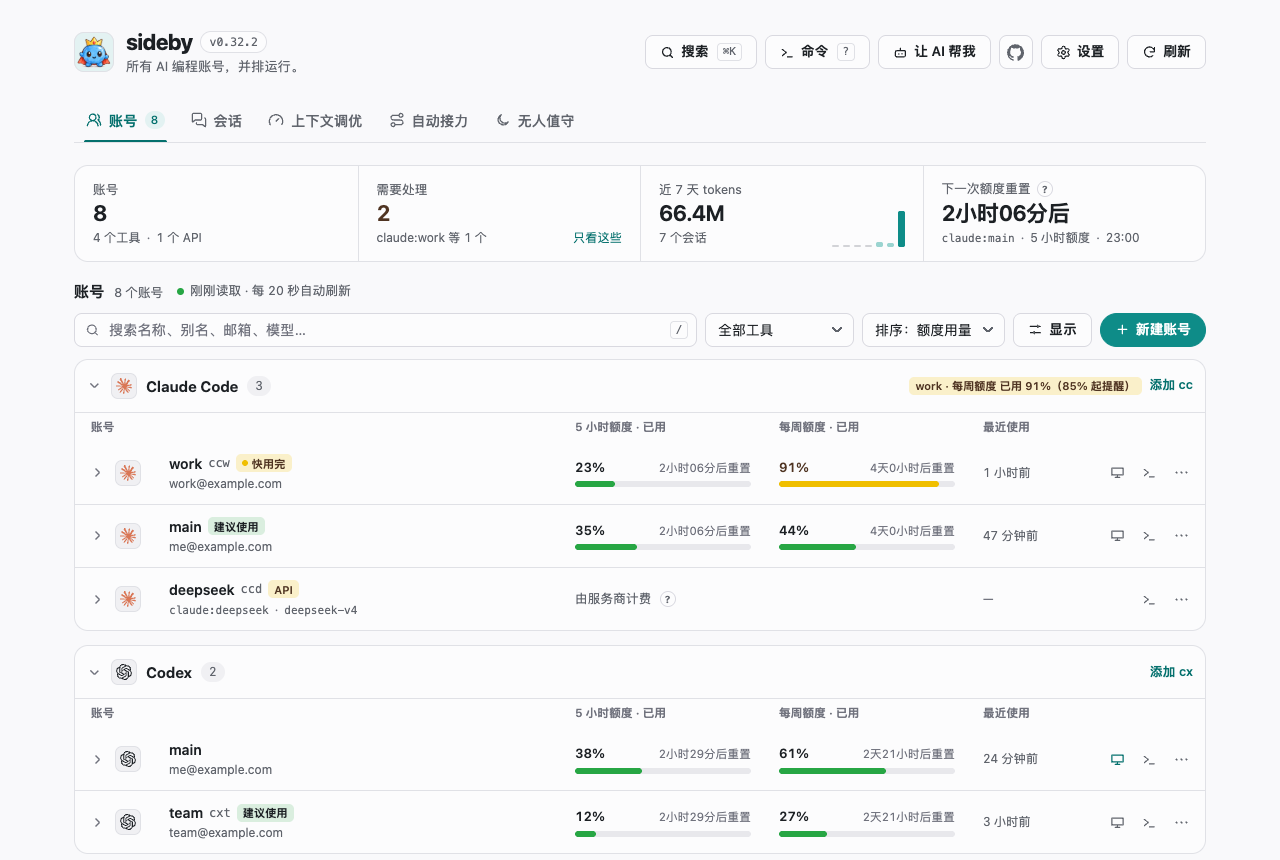
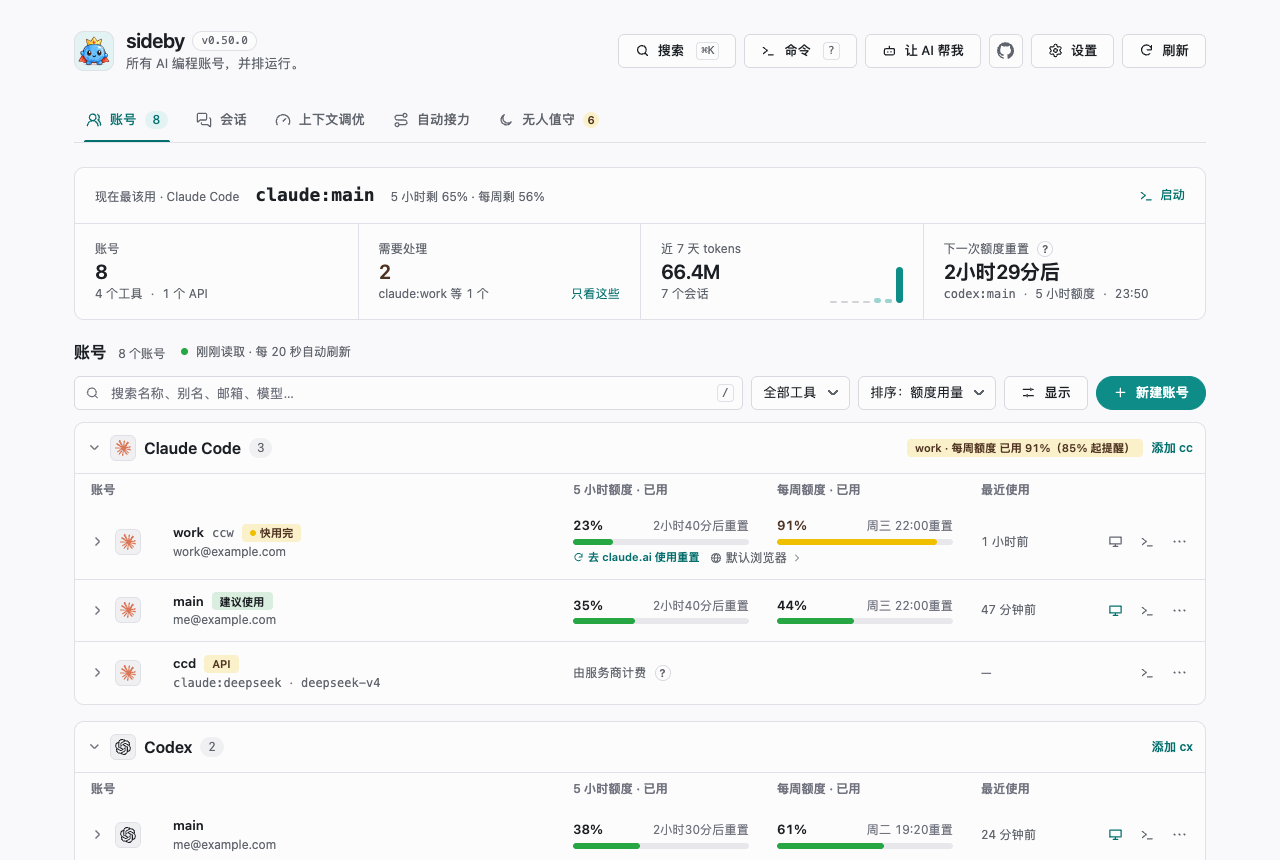
📝 docs(readme): refresh copy, panel screenshots, and demo GIF for v0.50.0
Update bilingual README, usage/panel guides, and llms.txt for Antigravity CLI active-only staggered quota checks (ADR-0092) and per-account Panel quota refresh. Retake the four Panel screenshots and demo.gif (fixing scripts/record-demo.ts to keep the quota-answering claude stub on the Panel demo HOME), and mark banner and intro-video current in docs/assets/manifest.json.

diff --git a/scripts/record-demo.ts b/scripts/record-demo.ts
@@ -148,8 +148,8 @@ async function handoff() {
 }
 const handover = await handoff()
 
-// The Panel on the demo HOME, in headless Chrome.
-const panelUrl = await startPanel(env, 17421)
+// The Panel on a clean demo HOME (with the quota-answering claude stub), in headless Chrome.
+const panelUrl = await startPanel(demoHome(join(work, 'demo-panel')), 17421)
 const { page, evaluate, until, screenshot, close } = await openChrome(work)
 
 // Dark Panel at twice the pixels, so the zoom stays sharp.

diff --git a/docs/guide/panel.md b/docs/guide/panel.md
@@ -12,7 +12,7 @@ sideby ui --no-open    # print the address only
 
 The panel listens on `127.0.0.1` only. If another sideby panel already runs on the port, sideby opens that one; if another program holds the port, it tries the next ones and prints the address it used. The page shows each account's sign-in email, quota windows in aligned columns and last use; click an account to see how it runs, its token usage and its health. When a tool's local records have sessions but no token counts, that cell shows how many sessions and says the records have no token counts; last use is the newest of those sessions. After a name come its short command and at most one label, the most important first: "Needs a fix", "Almost full", another thing to look at (not signed in, tool missing, "Take a look"), then "Suggested"; hover it for why. When an account's website is signed in in Chrome, the opened account names that browser user and opens it. The page refreshes itself every 20 seconds while it is open (every 5 seconds for a few minutes after you turn on quota, so the first numbers appear soon after a status line reports them), and while it is in view also about half a second after a tool writes new quota: a Claude Code status line, an answer of a tool's own CLI, a Codex or Grok session record. The line at the top, **Best to use now**, names the account `sideby next` would start and the quota it has left in each window, such as `claude:work · 5-hour 72% left · Weekly 40% left`; click it to start that account in your terminal. With several tools it shows the one the tool filter picks, else the first tool in the list that has an account to use; hover it for the others. When no account can be used, it says why, and when one is used up, which comes back first. It shows the quota it has at once and asks the tools behind it; each account takes its new numbers as its answer arrives. Hover a quota bar for when and where its number was read; under the bars, a small line says the age once the numbers are older than sideby asks, and **1 reset available** when the account holds a limit reset (see [How fresh the numbers are](usage.md#how-fresh-the-numbers-are) and [Limit resets](usage.md#limit-resets)). Next to it, **Use a reset** opens a confirmation that shows what a reset would do before anything is used, and a Claude Code account with a tight window gets **Use a reset on claude.ai**, which opens Claude's usage page; when nothing is tight, both are in the row's menu and in Search (see [Use a limit reset](usage.md#use-a-limit-reset)). "Hide emails" under **Display** masks addresses as `a•••@example.com` for screen sharing. Accounts of one tool signed in as the same login (Claude Code, Codex, Grok Build) sit together in the list: one line with a link mark after the name (hover it to see which directories share the login), the email and that quota, shown once (hover it to see which account it was read from, and its warning dot is there), then a row for each directory with its own name, model, last use and menu (click the head to fold them away) (see [Two directories, one login](usage.md#two-directories-one-login)). When a search leaves only one of them, or in cards, each account shows the quota itself and says "Same login as …". **Display** also switches between used and left quota and between the list and cards. The panel remembers which accounts you opened, in your browser. An opened Claude Code or Codex account shows the model and effort it runs with; click it, or "Model and effort…" in the account's menu, to set them for that account alone (see [Model and effort](usage.md#model-and-effort)). On macOS, a Claude Code or Codex subscription account with the desktop app installed has a screen button at the end of its row, next to the terminal button, and "Open desktop app" in its menu (on a shared login it opens the one already running, or the directory the row is named after); which opens Claude Desktop or the Codex app as that account (see [Desktop apps](usage.md#desktop-apps)). When Grok Bot is installed, a **Grok Bot** group after the accounts lists its windows, each with its own sign-in, and opens another one (see [Grok Bot windows](usage.md#grok-bot-windows)). Each account's menu has "Context tuning", the same estimate as `sideby tune`; its "Use" button writes the suggested size after showing the change, and "Undo" puts the old value back (see [Context tuning](usage.md#context-tuning)). It runs Doctor with one-click fixes, creates accounts (with an optional short command), and can turn on Claude quota after showing the diff. One quota setup covers every Claude Code account, so the "Turn on quota" button sits in the Claude Code group header, not on each account. For an account that is not signed in, **Sign in** opens your terminal and runs `sideby login <account>` there (no AI involved); signing in always happens in your terminal, and if the terminal cannot be opened the panel copies the command for you to paste. When the browser user shown in an account's details is wrong, **Change** next to it lets you pick the right one (see [Which browser you signed in with](usage.md#which-browser-you-signed-in-with)). A signed-in account has **Sign in again or switch account** in its menu, and each directory of a shared login has **Use another account**; both run the same command.
 
-**Pins and the account menu.** A pinned account shows a small pin before its name; click it to unpin. Hover over any other account (or move to it with the keyboard) and a fainter pin shows in the same place; click it to pin that account to the top of its group (at most 3 per tool). Right-click an account row or card to open the same menu as its **…** button, right where you clicked; on the keyboard, the menu key or Shift+F10 opens it for the focused row. Right-clicking text boxes, links and buttons still gives your browser's own menu.
+**Pins and the account menu.** A pinned account shows a small pin before its name; click it to unpin. Hover over any other account (or move to it with the keyboard) and a fainter pin shows in the same place; click it to pin that account to the top of its group (at most 3 per tool). Right-click an account row or card to open the same menu as its **…** button, right where you clicked; on the keyboard, the menu key or Shift+F10 opens it for the focused row. For tools whose quota sideby can ask on demand, the menu also has **Refresh quota** to refresh that account alone. Right-clicking text boxes, links and buttons still gives your browser's own menu.
 
 **Search** (the button at the top, or Cmd/Ctrl+K) finds a page, a setting or an action by name, in English or Chinese, and takes you there: a setting opens where it lives and lights up for a moment, and an action opens its usual preview, so nothing changes until you confirm. With an empty box it lists what you used last and a few common ones. It finds features, not sessions: its last row searches Session History for the same words. `/` and Cmd/Ctrl+F still go to the account search. In a terminal, `sideby commands <words>` searches the same list.
 

diff --git a/docs/guide/panel.zh-CN.md b/docs/guide/panel.zh-CN.md
@@ -12,7 +12,7 @@ sideby ui --no-open    # 只打印地址
 
 面板只监听 `127.0.0.1`。端口上已经有一个 sideby 面板时，直接打开那个面板；端口被别的程序占用时，依次试后面的端口，并打印最终地址。页面显示每个账号的登录邮箱、按列对齐的各额度窗口和最近使用；点一下账号，可以看它的运行方式、token 用量和健康状态。本地记录有会话、但没有 token 数时，这一格显示会话个数，并写明记录里没有 token 数；最近使用取这些会话里最新的一条。名字后面是短命令，再最多一个标签，按要紧程度取一个：「需要修复」「快用完」、其他要看一眼的情况（没登录、工具缺失、「看一下」），然后是「建议使用」；悬停能看到原因。账号的网站在 Chrome 里登录过时，展开后会写出是哪个浏览器用户，点一下用它打开。页面打开时每 20 秒自动刷新，开启额度后的几分钟里每 5 秒刷新一次，status line 一上报就能看到第一批数字；页面在前台时，工具一写下新额度（Claude Code 的 status line、工具自己的 CLI 查回的额度、Codex 或 Grok 的会话记录），约半秒后也会刷新。顶部一行「现在最该用」写出 `sideby next` 会启动的账号和它每个窗口剩下的额度，例如 `claude:work · 5 小时剩 72% · 每周剩 40%`；点一下就在你的终端里启动它。有几个工具时，显示工具筛选选中的那个，没选时取列表里第一个有账号可用的工具；悬停能看到其他工具。没有能用的账号时写明原因；都用完时写最先恢复的是哪个、什么时候。页面先显示手头已有的额度，同时在后面向各工具查询，哪个账号的答案回来了就换上新数字。悬停额度条能看到这个数字的读取时间和来源；数字比 sideby 查询的间隔旧时，额度条下面有一行小字写出年龄；账号有重置次数时，那里还写「可用重置 1 次」（见[数字有多新](usage.zh-CN.md#数字有多新)和[重置次数](usage.zh-CN.md#重置次数)）。旁边的「使用重置」会打开确认框，先让你看清这次重置会带来什么，确认后才使用；Claude Code 账号有窗口紧张时显示「去 claude.ai 使用重置」，打开 Claude 的用量页；都不紧张时，这两个动作在这一行的菜单和搜索里（见[使用重置](usage.zh-CN.md#使用重置)）。「显示」里的「隐藏邮箱」会把地址显示成 `a•••@example.com`，方便共享屏幕。同一工具里登录同一个身份的账号（Claude Code、Codex、Grok Build）在列表里排在一起：上面一行的名字后有一个链接图标（悬停看哪些目录共用这个登录），再写 email 和这份额度，只显示一次（鼠标悬停可以看到读自哪个账号，提醒的圆点也在这一行）；下面每个目录一行，写它自己的名字、模型、最近使用和菜单，点组头可以把它们收起（见[两个目录，同一个登录](usage.zh-CN.md#两个目录同一个登录)）。搜索后只剩其中一个，或者用卡片视图时，每个账号自己显示额度，并写「与 … 同一登录」。「显示」里还能切换已用或剩余额度、列表或卡片。哪些账号展开着，面板会在你的浏览器里记住。展开后，Claude Code 和 Codex 账号会显示它用的模型和 effort；点它，或账号菜单里的「模型和 effort…」，就能只为这个账号设置（见[模型与 effort](usage.zh-CN.md#模型与-effort)）。在 macOS 上，装了桌面应用的 Claude Code、Codex 订阅账号行尾、终端按钮左边有一个显示器按钮，菜单里也有「打开桌面应用」（同一登录的分组直接打开：已在运行的切到前台，否则用这一行显示的目录），用这个账号打开 Claude Desktop 或 Codex 应用（见[桌面应用](usage.zh-CN.md#桌面应用)）。装了 Grok Bot 时，账号下面有一组 **Grok Bot**，列出它的各个窗口（各自登录），也能再开一个（见 [Grok Bot 窗口](usage.zh-CN.md#grok-bot-窗口)）。每个账号的菜单里有「上下文调优」，内容和 `sideby tune` 一致；「使用」按钮先展示改动，确认后写入推荐值，「撤销」可以改回原值（见[上下文调优](usage.zh-CN.md#上下文调优)）。页面上还有带一键修复的体检、新建账号（可顺手加短命令），还能在展示 diff 后开启 Claude 额度。一次开启对所有 Claude Code 账号生效，所以「开启额度显示」按钮只在 Claude Code 分组标题里，不在每个账号上。没登录的账号旁有「登录」：它打开你的终端，在里面运行 `sideby login <account>`（不经过 AI）。登录始终在你自己的终端里完成；终端打不开时，面板把命令复制好，让你自己粘贴。账号详情里显示的浏览器用户不对时，点旁边的「更改」选对的那个（见[在哪个浏览器登录过](usage.zh-CN.md#在哪个浏览器登录过)）。已登录账号的菜单里有「重新登录或换账号」，同一登录的每个目录有「换个账号登录」，两者运行同一条命令。
 
-**置顶和账号菜单。** 置顶的账号名字前有一个小图钉，点它取消置顶。鼠标移到其他账号上（或用键盘移到它那一行），同一位置会出现一个更浅的图钉，点它把这个账号置顶到所在分组的最前（每个工具最多 3 个）。在账号行或卡片上按右键，会在点的位置打开和「…」按钮一样的菜单；用键盘时，在聚焦的行上按菜单键或 Shift+F10 也能打开。在输入框、链接和按钮上右键，仍然是浏览器自己的菜单。
+**置顶和账号菜单。** 置顶的账号名字前有一个小图钉，点它取消置顶。鼠标移到其他账号上（或用键盘移到它那一行），同一位置会出现一个更浅的图钉，点它把这个账号置顶到所在分组的最前（每个工具最多 3 个）。在账号行或卡片上按右键，会在点的位置打开和「…」按钮一样的菜单；用键盘时，在聚焦的行上按菜单键或 Shift+F10 也能打开。支持按需查询额度的工具，菜单里还有「刷新额度」，可以单独刷新这一个账号。在输入框、链接和按钮上右键，仍然是浏览器自己的菜单。
 
 **搜索**（顶栏的按钮，或 Cmd/Ctrl+K）按名字找到一个页面、一项设置或一个操作，中英文都行，并带你过去：设置会打开它所在的位置并短暂高亮，操作会打开它原有的预览，确认之前什么都不改。框里没字时列出最近用过的和几个常用项。它只找功能，不找会话：最后一行用同样的词搜索会话历史。`/` 和 Cmd/Ctrl+F 仍然跳到账号搜索。在终端里，`sideby commands <词>` 搜索同一份列表。
 

diff --git a/docs/guide/usage.md b/docs/guide/usage.md
@@ -195,11 +195,11 @@ Checked against the protocol of Codex CLI 0.167.2 on 2026-11-13; no real reset w
 
 Every number has the time it was read and where it came from: hover a quota bar in the panel or an account in the menu bar, or read the age at the end of each `sideby quota` line (`observedAt` and `source` in `--json`). A model's own weekly window (such as Claude Code's Fable week) can be older than the 5-hour and weekly numbers next to it, because the status line reports only those two; such a window carries its own `observedAt`, and its own age decides whether it is marked old.
 
-- The age is written next to the numbers only once they are older than sideby asks the tool (15 minutes for Claude Code, Codex, Grok Build and Antigravity CLI). A check that failed is marked at once.
+- The age is written next to the numbers only once they are older than sideby asks the tool (15 minutes for Claude Code, Codex and Grok Build; 30–45 minutes while active for Antigravity CLI). A check that failed is marked at once.
 - Numbers over an hour old are marked old, unless this computer has not used the login since they were read; use on the web or another computer cannot be seen.
-- When a window passes the reset time the tool gave, sideby asks that tool once more instead of waiting out the 15 minutes, so an account that is free again shows its room soon. It does this once per reset time; if that ask fails, the regular schedule goes on.
+- When a window passes the reset time the tool gave, sideby asks that tool once more instead of waiting out the regular interval, so an account that is free again shows its room soon (idle Antigravity CLI accounts wait for local activity or a manual refresh). It does this once per reset time; if that ask fails, the regular schedule goes on.
 - Accounts signed in as the same login are one quota, so sideby asks one of them (the first in your order that is signed in) and shows the answer on all. At most four tools are asked at the same time, your pinned accounts first, then the ones running low, then the most recently used.
-- The panel and the menu bar show what they have at once and fill in each account as its answer arrives; **Refresh** still asks everything again.
+- The panel and the menu bar show what they have at once and fill in each account as its answer arrives; **Refresh** still asks everything again, and an account's `…` menu has **Refresh quota** to ask that account alone.
 
 ## Grok quota
 
@@ -584,4 +584,4 @@ Host-specific notes:
 - **codex**: non-main accounts get `-c cli_auth_credentials_store="file"` unless your arguments already set that key, so each account keeps its login in its own `auth.json`.
 - **grok**: Grok's sandbox rejects symlinks for some paths, so `hooks` and `hooks-paths` are copies, not links, and `trusted_folders.toml` and `config.toml` are the account's own files. Doctor quotes the Host's own message when it finds one.
 - **pi**: accounts live one level deeper (`~/.pi-<name>/agent`). `proxy.env` only loads provider keys; it does not make a pi account an API account.
-- **agy** (Antigravity CLI): the Main Account stays at `~/.gemini/antigravity-cli` with its OS keychain login shared with the desktop app/IDE (`unknown` in `sideby list`). Extra accounts (`~/.gemini/antigravity-cli-<name>`, `sideby new agy 002 --alias agy002`) start with `--app_data_dir=antigravity-cli-<name>` and `AGY_CLI_FORCE_FILE_TOKEN_STORAGE=1`, storing their Google OAuth login in their own mode-600 `antigravity-oauth-token` while sharing `~/.gemini/config/` (MCP, plugins, rules, hooks) natively and leaving real `HOME` unchanged. `new --api` and mid-session Auto Handoff are not supported for `agy`. sideby asks `agy [selectArgs] -p /usage --output-format json` for each account's quota, at most every 15 minutes; it starts no model turn. Each limit covers one model group, and `sideby next agy`, pick commands (suggested name `ag`), and the Panel recommendation rank accounts by the configured primary group (`agy.pickGroup`, default `Gemini Models`). Resuming by id (`--resume`, `--conversation`, `-r`) routes to the account holding `conversations/<id>.db`, and Orca Chat launches (`agy acp` with `ORCA_STRUCTURED_SESSION=1` and `ORCA_AGENT_SESSION_ID`) pin each chat to its originating account across wakes. A quota check that needs a sign-in says to run `sideby login agy:<name>`, and never opens a browser: when agy wants to open its sign-in page, sideby stops it and marks the sign-in as expired. agy's past conversations stay per account and show in Session History by title and project (not by what was said in them); `sideby history show <id>` gives the command that continues one.
+- **agy** (Antigravity CLI): the Main Account stays at `~/.gemini/antigravity-cli` with its OS keychain login shared with the desktop app/IDE (`unknown` in `sideby list`). Extra accounts (`~/.gemini/antigravity-cli-<name>`, `sideby new agy 002 --alias agy002`) start with `--app_data_dir=antigravity-cli-<name>` and `AGY_CLI_FORCE_FILE_TOKEN_STORAGE=1`, storing their Google OAuth login in their own mode-600 `antigravity-oauth-token` while sharing `~/.gemini/config/` (MCP, plugins, rules, hooks) natively and leaving real `HOME` unchanged. `new --api` and mid-session Auto Handoff are not supported for `agy`. sideby asks `agy [selectArgs] -p /usage --output-format json` for each account's quota; it starts no model turn. Automatic checks run only after local conversation activity, spread across a 30–45 minute window and serialized across accounts with a 3–5 second gap; idle accounts keep their last reading until used again or refreshed manually (`sideby quota agy --refresh`, or **Refresh quota** in the panel's `…` menu). Each limit covers one model group, and `sideby next agy`, pick commands (suggested name `ag`), and the Panel recommendation rank accounts by the configured primary group (`agy.pickGroup`, default `Gemini Models`). Resuming by id (`--resume`, `--conversation`, `-r`) routes to the account holding `conversations/<id>.db`, and Orca Chat launches (`agy acp` with `ORCA_STRUCTURED_SESSION=1` and `ORCA_AGENT_SESSION_ID`) pin each chat to its originating account across wakes. A quota check that needs a sign-in says to run `sideby login agy:<name>`, and never opens a browser: when agy wants to open its sign-in page, sideby stops it and marks the sign-in as expired. agy's past conversations stay per account and show in Session History by title and project (not by what was said in them); `sideby history show <id>` gives the command that continues one.

diff --git a/README.md b/README.md
@@ -113,7 +113,7 @@ cc-switch's docs describe that switch: it writes the live settings file ([README
 | Codex CLI | `~/.codex`, `~/.codex-<name>` | `codex login` | ✓ | ✓ |
 | Grok Build | `~/.grok`, `~/.grok-<name>` | `grok login` | weekly, asked from the `grok` CLI | no public source |
 | pi | `~/.pi/agent`, `~/.pi-<name>/agent` | `/login` inside pi | no public source | no public source |
-| Antigravity CLI | `~/.gemini/antigravity-cli`, `~/.gemini/antigravity-cli-<name>` | sign in with Google inside `agy` | 5-hour and weekly per model group, asked from the `agy` CLI | no public source |
+| Antigravity CLI | `~/.gemini/antigravity-cli`, `~/.gemini/antigravity-cli-<name>` | sign in with Google inside `agy` | 5-hour and weekly per model group, asked from the `agy` CLI while active | no public source |
 
 sideby starts the official binary on your `PATH` and never patches it. Tested versions and per-Host notes are in the [guide](docs/guide/usage.md#host-notes).
 
